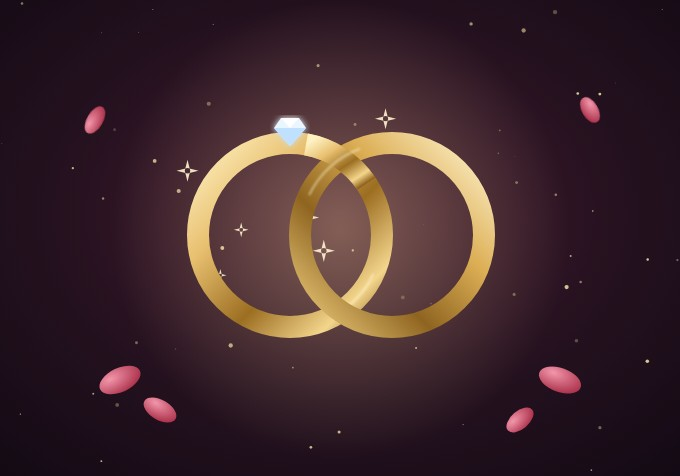
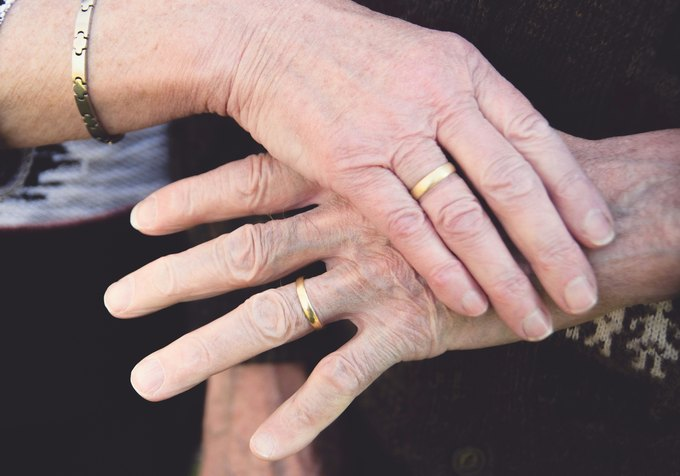
Tuiles Свадьба et Годовщина свадьбы : photos (Pixabay) + médaillon de la carte anniversaire
Claude-Session: https://claude.ai/code/session_011McuvHVizp8jBQhJGdY3oV

diff --git a/index.html b/index.html
@@ -237,7 +237,7 @@ button:focus-visible,a:focus-visible{outline:2px solid var(--gold-hi);outline-of
       <a class="tile c" href="cartes/fete-meres.html" target="_blank"><span class="ms">local_florist</span><b>День матери</b></a>
       <a class="tile e has-art" href="cartes/papa.html" target="_blank"><img class="photo" src="images/tuiles/papa.jpg" alt="" loading="lazy"><b>Папе</b></a>
       <a class="tile e" href="cartes/famille.html" target="_blank"><span class="ms">eco</span><b>День семьи</b></a>
-      <a class="tile r" href="cartes/mariage.html" target="_blank"><span class="ms">diamond</span><b>Свадьба</b></a>
+      <a class="tile r has-art" href="cartes/mariage.html" target="_blank"><img class="photo" src="images/tuiles/mariage.jpg" alt="" loading="lazy"><b>Свадьба</b></a>
       <a class="tile a" href="cartes/naissance.html" target="_blank"><span class="ms">child_care</span><b>Рождение</b></a>
       <a class="tile o" href="cartes/grand-pere.html" target="_blank"><span class="ms">park</span><b>Дедушке</b></a>
       <a class="tile c" href="cartes/grand-mere.html" target="_blank"><span class="ms">volunteer_activism</span><b>Бабушке</b></a>

diff --git a/cartes/anniversaire-mariage.html b/cartes/anniversaire-mariage.html
@@ -67,7 +67,7 @@
   </div>
 
   <div class="photo-wrap">
-    <div class="photo-ring">💕</div>
+    <div class="photo-ring"><img src="anniversaire-mariage-photo.jpg" alt="Годовщина свадьбы" style="width:100%;height:100%;object-fit:cover;border-radius:50%;"></div>
     <span class="orbit-item" style="--od:8s;animation-delay:0s">🥂</span>
     <span class="orbit-item" style="--od:8s;animation-delay:-2.7s">💍</span>
     <span class="orbit-item" style="--od:8s;animation-delay:-5.3s">🌹</span>
